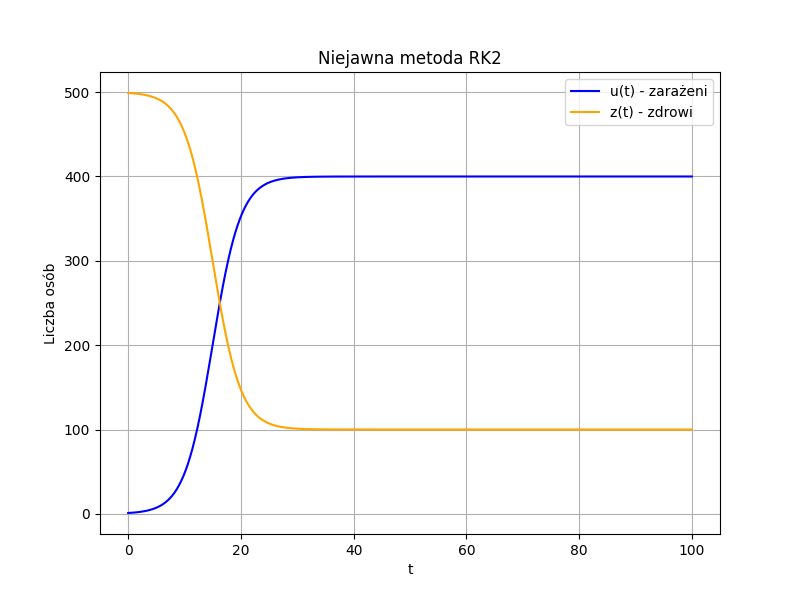
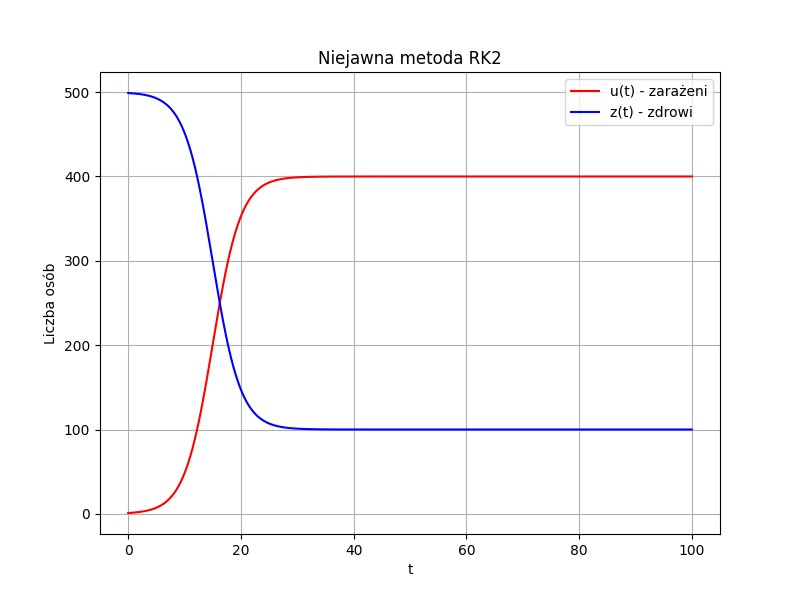
Uploaded lab02

diff --git a/lab02/lab02.py b/lab02/lab02.py
@@ -123,8 +123,8 @@ def implicit_rk2(u0, t_max, dt, TOL, max_iter):
 def plot_results(t_arr, u_arr, title, file_name):
     z_arr = N - u_arr
     plt.figure(figsize=(8, 6))
-    plt.plot(t_arr, u_arr, label="u(t) - zarażeni", color='blue')
-    plt.plot(t_arr, z_arr, label="z(t) - zdrowi", color='orange')
+    plt.plot(t_arr, u_arr, label="u(t) - zarażeni", color='red')
+    plt.plot(t_arr, z_arr, label="z(t) - zdrowi", color='blue')
     plt.title(title)
     plt.xlabel("t")
     plt.ylabel("Liczba osób")
